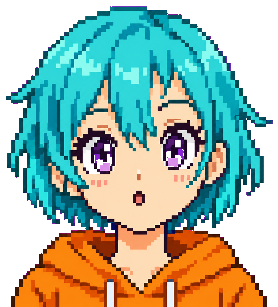
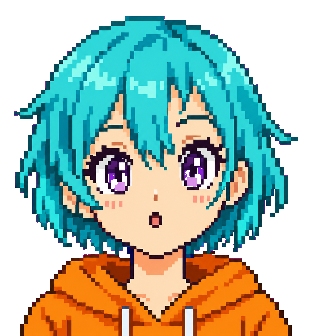
pixel: фикс белых пикселей при вырезании фона; выравнивание цвета волос демона

diff --git a/tools/make_pack.py b/tools/make_pack.py
@@ -25,9 +25,10 @@ def key_out(img: Image.Image) -> Image.Image:
     arr = np.asarray(img.convert("RGB")).astype(np.float32)
     dist = np.linalg.norm(arr - MAGENTA, axis=2)
     alpha = np.clip((dist - 18.0) / 90.0, 0.0, 1.0)
-    a = np.clip(alpha, 1e-3, 1.0)[..., None]
-    color = (arr - (1.0 - a) * MAGENTA) / a
-    color = np.clip(color, 0, 255)
+    # Цвет НЕ выпрямляем (unpremultiply): при малой альфе деление на неё
+    # выносит каналы за 255 и даёт одиночные белые пиксели на волосах.
+    # Розовую кайму убирает clean_edges.py / harden_alpha по кромке.
+    color = np.clip(arr, 0, 255)
     out = np.dstack([color, alpha * 255.0]).astype(np.uint8)
     return Image.fromarray(out, "RGBA")
 
